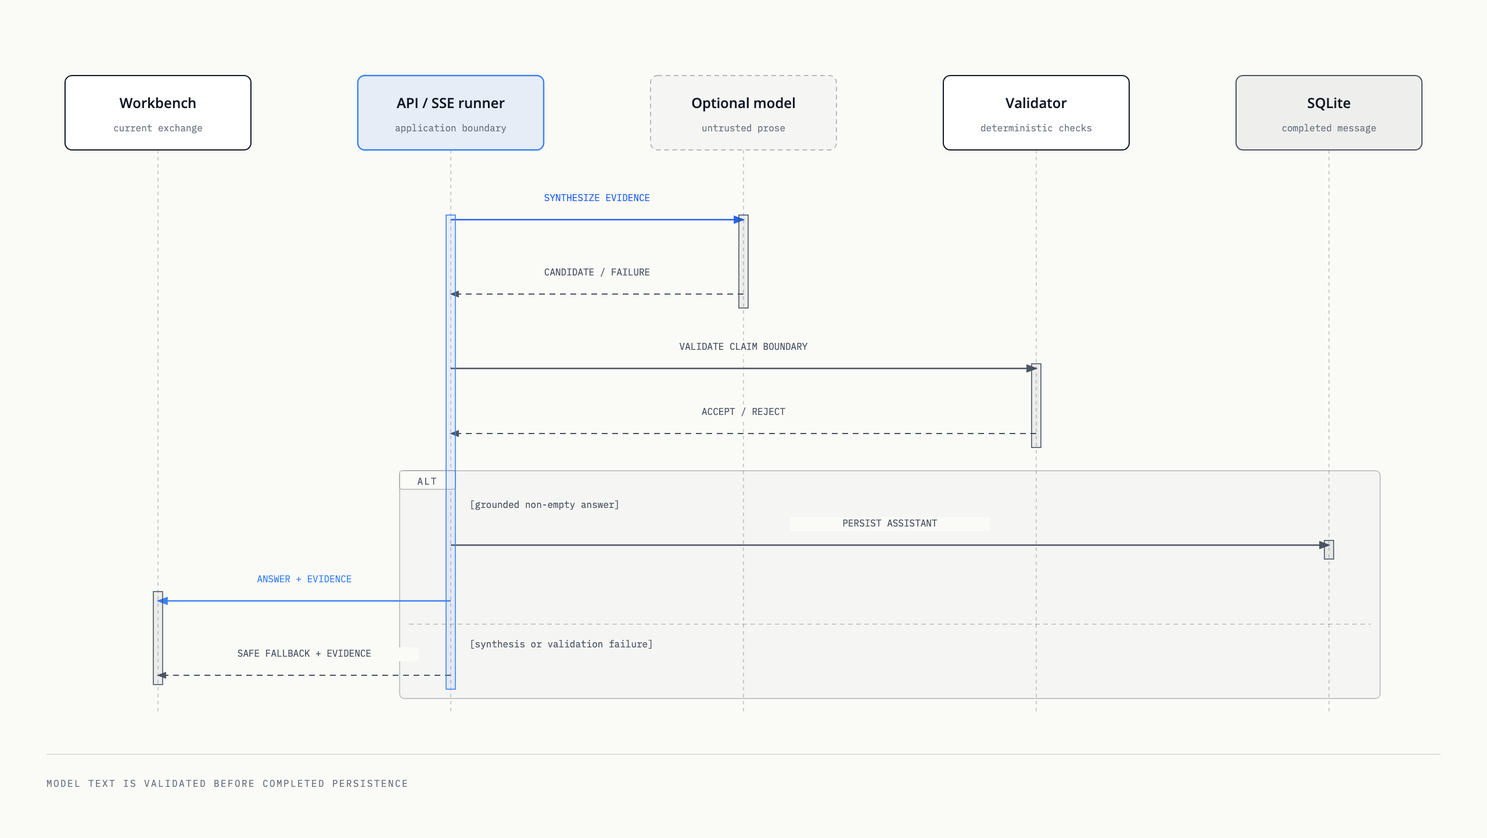
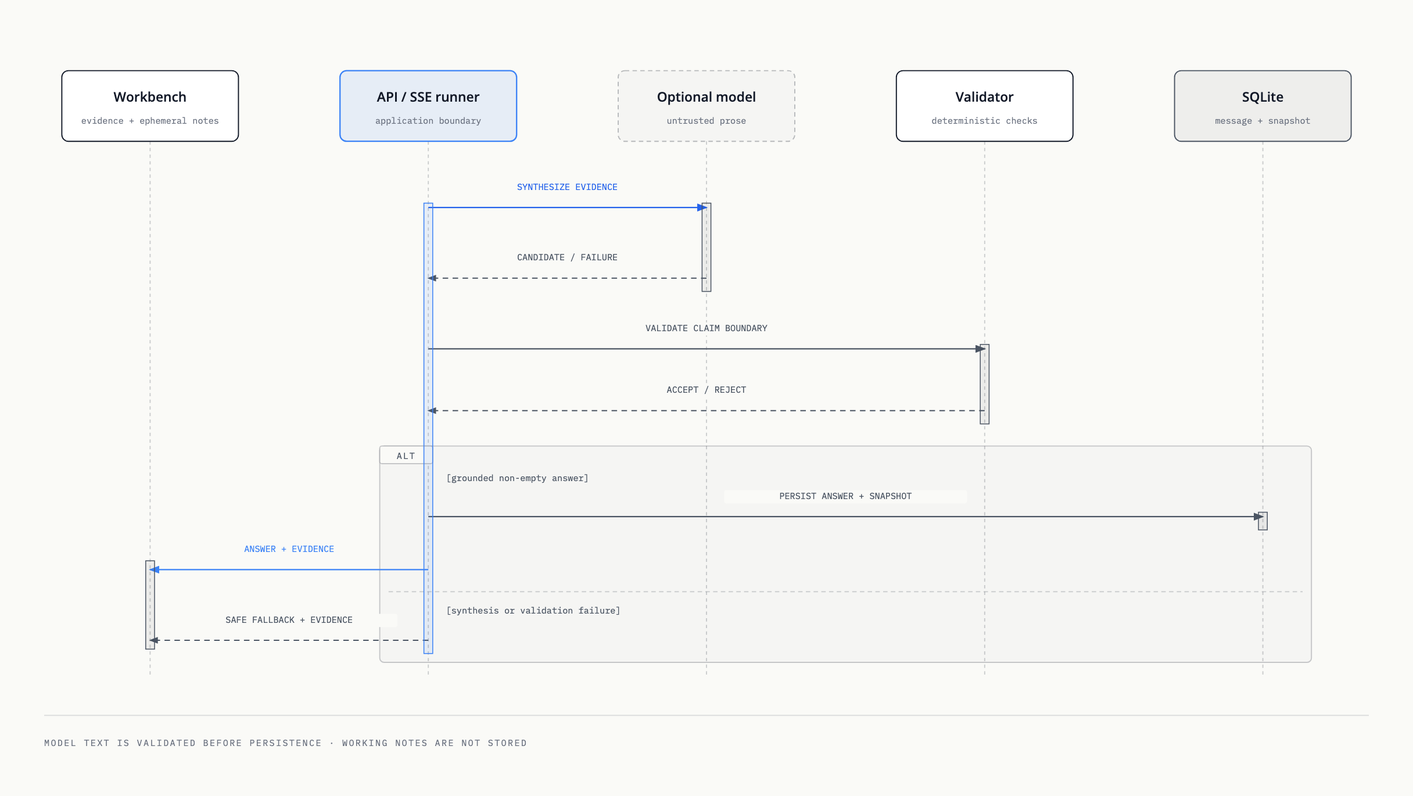
docs(v2): complete Slice 7 status and boundaries

diff --git a/docs/assets/combined-evidence-synthesis.html b/docs/assets/combined-evidence-synthesis.html
@@ -43,7 +43,7 @@
       <text x="368" y="416" text-anchor="middle" fill="#4b5563" font-family="IBM Plex Mono" font-size="8" letter-spacing="1">ALT</text>
       <text x="404" y="436" fill="#4b5563" font-family="IBM Plex Mono" font-size="8">[grounded non-empty answer]</text>
       <line x1="388" y1="468" x2="1144" y2="468" stroke="#4b5563" stroke-width="1.2" marker-end="url(#arrow)"/>
-      <rect x="680" y="444" width="172" height="12" rx="2" fill="#fafaf7"/><text x="766" y="452" text-anchor="middle" fill="#4b5563" font-family="IBM Plex Mono" font-size="8">PERSIST ASSISTANT</text>
+      <rect x="656" y="444" width="220" height="12" rx="2" fill="#fafaf7"/><text x="766" y="452" text-anchor="middle" fill="#4b5563" font-family="IBM Plex Mono" font-size="8">PERSIST ANSWER + SNAPSHOT</text>
       <line x1="388" y1="516" x2="136" y2="516" stroke="#3b82f6" stroke-width="1.2" marker-end="url(#arrow-accent)"/>
       <rect x="184" y="492" width="156" height="12" rx="2" fill="#fafaf7"/><text x="262" y="500" text-anchor="middle" fill="#3b82f6" font-family="IBM Plex Mono" font-size="8">ANSWER + EVIDENCE</text>
       <line x1="352" y1="536" x2="1180" y2="536" stroke="rgba(17,24,39,.20)" stroke-dasharray="4 3"/>
@@ -57,14 +57,14 @@
       <rect x="888" y="312" width="8" height="72" fill="rgba(17,24,39,.06)" stroke="#4b5563" stroke-width=".8"/>
       <rect x="1140" y="464" width="8" height="16" fill="rgba(17,24,39,.06)" stroke="#4b5563" stroke-width=".8"/>
 
-      <g><rect x="56" y="64" width="160" height="64" rx="6" fill="#fff" stroke="#111827"/><text x="136" y="92" text-anchor="middle" fill="#111827" font-family="Open Sans" font-size="12" font-weight="600">Workbench</text><text x="136" y="112" text-anchor="middle" fill="#6b7280" font-family="IBM Plex Mono" font-size="8">current exchange</text></g>
+      <g><rect x="56" y="64" width="160" height="64" rx="6" fill="#fff" stroke="#111827"/><text x="136" y="92" text-anchor="middle" fill="#111827" font-family="Open Sans" font-size="12" font-weight="600">Workbench</text><text x="136" y="112" text-anchor="middle" fill="#6b7280" font-family="IBM Plex Mono" font-size="8">evidence + ephemeral notes</text></g>
       <g><rect x="308" y="64" width="160" height="64" rx="6" fill="rgba(59,130,246,.10)" stroke="#3b82f6" stroke-width="1.2"/><text x="388" y="92" text-anchor="middle" fill="#111827" font-family="Open Sans" font-size="12" font-weight="600">API / SSE runner</text><text x="388" y="112" text-anchor="middle" fill="#6b7280" font-family="IBM Plex Mono" font-size="8">application boundary</text></g>
       <g><rect x="560" y="64" width="160" height="64" rx="6" fill="rgba(17,24,39,.02)" stroke="rgba(17,24,39,.28)" stroke-dasharray="4 3"/><text x="640" y="92" text-anchor="middle" fill="#111827" font-family="Open Sans" font-size="12" font-weight="600">Optional model</text><text x="640" y="112" text-anchor="middle" fill="#6b7280" font-family="IBM Plex Mono" font-size="8">untrusted prose</text></g>
       <g><rect x="812" y="64" width="160" height="64" rx="6" fill="#fff" stroke="#111827"/><text x="892" y="92" text-anchor="middle" fill="#111827" font-family="Open Sans" font-size="12" font-weight="600">Validator</text><text x="892" y="112" text-anchor="middle" fill="#6b7280" font-family="IBM Plex Mono" font-size="8">deterministic checks</text></g>
-      <g><rect x="1064" y="64" width="160" height="64" rx="6" fill="rgba(17,24,39,.05)" stroke="#4b5563"/><text x="1144" y="92" text-anchor="middle" fill="#111827" font-family="Open Sans" font-size="12" font-weight="600">SQLite</text><text x="1144" y="112" text-anchor="middle" fill="#6b7280" font-family="IBM Plex Mono" font-size="8">completed message</text></g>
+      <g><rect x="1064" y="64" width="160" height="64" rx="6" fill="rgba(17,24,39,.05)" stroke="#4b5563"/><text x="1144" y="92" text-anchor="middle" fill="#111827" font-family="Open Sans" font-size="12" font-weight="600">SQLite</text><text x="1144" y="112" text-anchor="middle" fill="#6b7280" font-family="IBM Plex Mono" font-size="8">message + snapshot</text></g>
 
       <line x1="40" y1="648" x2="1240" y2="648" stroke="rgba(17,24,39,.12)"/>
-      <text x="40" y="676" fill="#6b7280" font-family="IBM Plex Mono" font-size="8" letter-spacing="1.2">MODEL TEXT IS VALIDATED BEFORE COMPLETED PERSISTENCE</text>
+      <text x="40" y="676" fill="#6b7280" font-family="IBM Plex Mono" font-size="8" letter-spacing="1.2">MODEL TEXT IS VALIDATED BEFORE PERSISTENCE · WORKING NOTES ARE NOT STORED</text>
     </svg>
   </main>
 </body>

diff --git a/docs/assets/system-boundary.html b/docs/assets/system-boundary.html
@@ -21,7 +21,7 @@
     <h1>Industrial AI Agent system boundary</h1>
     <svg viewBox="0 0 1280 720" xmlns="http://www.w3.org/2000/svg" role="img" aria-labelledby="system-boundary-title system-boundary-desc">
       <title id="system-boundary-title">Industrial AI Agent system boundary</title>
-      <desc id="system-boundary-desc">Architecture showing a local user entering the web client and FastAPI orchestration, which uses SQLite, deterministic manufacturing evidence, local document evidence, and an optional configured model service.</desc>
+      <desc id="system-boundary-desc">Architecture showing a local user entering the web client and FastAPI orchestration, which uses SQLite for messages, context, and evidence snapshots; deterministic manufacturing evidence; local document evidence; and an optional configured model service. Model working notes stream to the current web exchange only.</desc>
       <defs>
         <marker id="arrow" markerWidth="8" markerHeight="6" refX="7" refY="3" orient="auto"><polygon points="0 0,8 3,0 6" fill="#4b5563"/></marker>
         <marker id="arrow-accent" markerWidth="8" markerHeight="6" refX="7" refY="3" orient="auto"><polygon points="0 0,8 3,0 6" fill="#3b82f6"/></marker>
@@ -62,7 +62,7 @@
         <rect x="80" y="320" width="144" height="80" rx="6" fill="#fafaf7"/>
         <rect x="80" y="320" width="144" height="80" rx="6" fill="#fff" stroke="#111827"/>
         <text x="152" y="352" text-anchor="middle" fill="#111827" font-family="Open Sans" font-size="12" font-weight="600">Web client</text>
-        <text x="152" y="372" text-anchor="middle" fill="#6b7280" font-family="IBM Plex Mono" font-size="8">React · Ant Design X</text>
+        <text x="152" y="372" text-anchor="middle" fill="#6b7280" font-family="IBM Plex Mono" font-size="8">evidence reload · live notes</text>
       </g>
       <g>
         <rect x="340" y="160" width="160" height="72" rx="6" fill="#fafaf7"/>
@@ -80,7 +80,7 @@
         <rect x="340" y="360" width="160" height="72" rx="6" fill="#fafaf7"/>
         <rect x="340" y="360" width="160" height="72" rx="6" fill="rgba(17,24,39,.05)" stroke="#4b5563"/>
         <text x="420" y="392" text-anchor="middle" fill="#111827" font-family="Open Sans" font-size="12" font-weight="600">SQLite</text>
-        <text x="420" y="412" text-anchor="middle" fill="#6b7280" font-family="IBM Plex Mono" font-size="8">messages · context</text>
+        <text x="420" y="412" text-anchor="middle" fill="#6b7280" font-family="IBM Plex Mono" font-size="8">messages · context · snapshots</text>
       </g>
       <g>
         <rect x="840" y="136" width="160" height="96" rx="6" fill="#fafaf7"/>

diff --git a/docs/architecture.md b/docs/architecture.md
@@ -18,13 +18,13 @@ leave the application boundary.
 
 | Boundary | Responsibility | Deliberate limit |
 | --- | --- | --- |
-| Web client | Conversation navigation, SSE consumption, workspace context, and current-exchange evidence rendering. | Does not calculate manufacturing values or persist evidence. |
+| Web client | Conversation navigation, SSE consumption, workspace context, historical snapshot rendering, and temporary Model Working Notes. | Does not calculate manufacturing values or persist working notes. |
 | FastAPI | HTTP contracts, validation, persistence coordination, and safe error responses. | No authentication, tenancy, or public-service hardening. |
-| SQLite and Alembic | Conversations, messages, and workspace context with explicit schema migrations. | No shared or highly available database. |
+| SQLite and Alembic | Conversations, messages, workspace context, and version-1 Evidence Snapshots with explicit schema migrations. | No shared or highly available database. |
 | Routing and graph | One authoritative route, clarification, fallback, single-tool execution, and one bounded combined path. | No open-ended planner, checkpoint resume, or evidence-tool retry. |
 | Manufacturing domain | Time-range validation, yield, defects, alarms, and recorded status over synthetic data. | No live state, throughput contract, or causal inference. |
 | Document retrieval | Section-aware chunks, lexical eligibility, deterministic feature hashing, cosine ranking, and stable citations. | No semantic embedding service, reranker, PDF/OCR, or persistent vector store. |
-| Model adapter | Optional answer and typed classification calls through an OpenAI-compatible API. | Model wording is not deterministic evidence. |
+| Model adapter | Optional answer and typed classification calls through an OpenAI-compatible API, with bounded final-answer reasoning separation. | Model wording and working notes are not deterministic evidence. |
 | MCP | Three native deterministic tools over local stdio. | Independent from FastAPI, the web client, retrieval, and conversation context. |
 | Evaluator | Fixed routing, evidence, retrieval, citation, and safe-failure assertions. | No LLM judge, live provider call, or performance benchmark. |
 
@@ -53,7 +53,14 @@ completion; the user message remains, while partial assistant content is not
 persisted. The application cannot guarantee that an upstream model provider
 has stopped generating after the disconnect.
 
-Structured manufacturing and document evidence belongs to the current browser
-exchange and is not restored from message history. Model text is untrusted
-interpretation. It cannot change synthetic records, invoke equipment, or turn
-an unsupported causal statement into deterministic evidence.
+Each completed evidence-backed assistant message stores one canonical,
+versioned Evidence Snapshot in the same persistence path as the Final Answer.
+History reload reads that copy instead of rerunning tools or reconstructing
+current data. Deleted uploads therefore do not remove excerpts already captured
+in a snapshot. Missing snapshots remain absent; unreadable stored snapshots keep
+the message visible and return an explicit Unavailable Evidence state.
+
+Model text is untrusted interpretation. Supported final-answer reasoning may be
+shown temporarily as Model Working Notes, but it is not stored in messages,
+snapshots, or logs. It cannot change synthetic records, invoke equipment, or
+turn an unsupported causal statement into deterministic evidence.

diff --git a/docs/implementation-status.md b/docs/implementation-status.md
@@ -44,9 +44,9 @@ matrix. Application README files own setup and contract usage.
 
 ## v2.0 — Persistent Evidence and Model Working Notes
 
-**Status: In Progress**
+**Status: Implemented**
 
-Slices 1 through 6 are implemented.
+Slices 1 through 7 are implemented.
 Slice 1 validates a version-1 typed
 `MessageRead.evidence_snapshot` union for Production Summary, Equipment Status,
 Defect Distribution, Document Search, Combined Evidence, and the explicit
@@ -130,7 +130,22 @@ and the disclosure showed a visible focus outline. This does not claim a live
 Qwen reasoning pass; its routing delay was excluded from deterministic UI
 acceptance. The browser run upgraded the local Alembic database from `0005` to
 `0006` without deleting data.
-Final v2.0 acceptance remains open in Slice 7.
+Slice 7 completed final acceptance. Stored unsupported or invalid snapshots now
+preserve their assistant messages and return explicit Unavailable Evidence on
+history reads while direct schema and write validation remain strict. A focused
+integration also verifies that deleting a local upload does not erase the
+captured source from a historical snapshot, and captured logs do not contain
+provider working-note text. The visible streaming cancel control remains usable
+while a request is active.
+
+The final local run passed 466 API tests and 145 Web tests, Ruff, deterministic
+evaluation, migration, API and Web builds, TypeScript checking, and ESLint with
+the existing Fast Refresh warning. Browser acceptance covered historical reload
+at desktop and 390 px, Combined partial failure, retained deleted-upload source,
+Missing and Unavailable Evidence, Working Notes collapse and reopening,
+truncation, interruption, cancellation, plain-text rendering, and reset on
+reload. Ant Design CLI diagnostics remain blocked by the existing missing native
+binding; the existing Vite chunk warning also remains.
 
 ## HTTP contracts
 
@@ -187,6 +202,11 @@ The latest full-release verification on 2026-08-15 produced:
   outline. This does not claim a live Qwen reasoning pass; its routing delay
   was excluded from deterministic UI acceptance. The browser run upgraded the
   local Alembic database from `0005` to `0006` without deleting data.
+- Slice 7 completed final local acceptance on 2026-08-18: the full API suite
+  passed 466 tests and the full Web suite passed 145 tests. Migration, Ruff,
+  deterministic evaluation, API and Web builds, TypeScript checking, ESLint,
+  browser reload and responsive checks, and both review axes passed. Ant Design
+  CLI diagnostics remained blocked by the documented missing native binding.
 - Browser combined workflow: one explicit production-plus-document request ran
   against saved synthetic AOI context. The final exchange retained a 95.56%
   Production Summary and three cited document sources when model synthesis was

diff --git a/docs/project-scope.md b/docs/project-scope.md
@@ -59,8 +59,8 @@ belongs in deterministic domain code rather than an LLM.
 
 ## Current milestone boundary
 
-v2.0 Persistent Evidence and Model Working Notes is **In Progress**. Slices 1
-through 6 are implemented. Slice 1
+v2.0 Persistent Evidence and Model Working Notes is **Implemented**. Slices 1
+through 7 are complete. Slice 1
 defines the version-1 typed
 `MessageRead.evidence_snapshot` union for Production Summary, Equipment Status,
 Defect Distribution, Document Search, Combined Evidence, and the explicit
@@ -145,9 +145,16 @@ Qwen reasoning pass; its routing delay was excluded from deterministic UI
 acceptance. The browser run upgraded the local Alembic database from `0005` to
 `0006` without deleting data.
 
-The following v2.0 work remains:
-
-- Slice 7 — Final v2.0 acceptance.
+Slice 7 completed the bounded v2.0 acceptance without adding another workflow.
+Unreadable stored snapshots preserve message history as Unavailable Evidence,
+deleted uploads do not erase sources already captured in historical snapshots,
+and provider working notes remain absent from SQLite and captured logs. The
+streaming cancel control also remains usable while generation is active. Final
+verification passed 466 API and 145 Web tests, deterministic evaluation,
+migration, linting, type checking, and both builds. Browser acceptance covered
+desktop and 390 px reload plus the approved historical and ephemeral states.
+Ant Design CLI diagnostics remain blocked by the documented missing native
+binding.
 
 v1.0 Portfolio Release is **Implemented**. It packages the verified v0.9
 application as a repository-only release. Corrective validation and responsive
@@ -224,7 +231,8 @@ external embedding service. A registry-only API and read-only Drawer expose
 the complete cited document. Local Markdown management adds persistent,
 Git-ignored single-file uploads, validation, atomic corpus replacement, and
 deletion while protecting built-ins. Multi-tool turns, PDF/OCR, authentication,
-cloud storage, and persisted evidence remain outside the current boundary.
+cloud storage, and persisted evidence were outside the v0.5 boundary; v2.0 later
+added message-owned Evidence Snapshots without changing the retrieval index.
 
 The completed v0.6 milestone adds typed English and Traditional Chinese routing,
 bounded classifier retry and fallback, deterministic clarification, shared

diff --git a/README.md b/README.md
@@ -16,6 +16,10 @@ evidence visibly separate. Co-occurrence is never presented as proof of cause.
 > verification, browser and screenshot review, public-copy and publication
 > review, two-axis code review, and GitHub Actions on 2026-08-15.
 
+> **v2.0 status: Implemented.** Completed assistant messages now retain typed
+> Evidence Snapshots across reloads. Supported provider working notes remain a
+> temporary, optional UI surface and never become message history or evidence.
+
 ## What the repository demonstrates
 
 - FastAPI and SQLite conversation persistence with explicit Alembic migrations;
@@ -114,17 +118,16 @@ The latest recorded results and release evidence are listed in
 same deterministic boundary on Ubuntu. Model calls and secrets are excluded
 from CI.
 
-The Slice 6 local verification recorded 89 focused backend tests, 86 focused
-frontend tests, 463 full API tests, and 144 full Web tests. Type checking,
-linting, and builds passed; existing Fast Refresh and chunk warnings remain.
+The final v2.0 local verification recorded 466 full API tests and 145 full Web
+tests. Deterministic evaluation, migration, type checking, linting, and builds
+passed; existing Fast Refresh and chunk warnings remain.
 Ant Design CLI `info`, `lint`, and `doctor` checks remain blocked by the missing
 `@oxc-parser/binding-darwin-arm64` package. A local browser acceptance run also
 passed with an independently created deterministic OpenAI-compatible streaming
-fixture: the disclosure opened during reasoning, closed on the first Final
-Answer token, reopened through its pointer, and disappeared on reload while the
-persisted answer remained. At a 390px viewport, the page had no horizontal
-overflow; the notes body used a 220px maximum height with scrolling, and its
-focus outline was visible.
+fixture. Historical production, Combined partial-failure, deleted-upload source,
+missing, and unsupported-version states survived reload. Working Notes opened,
+collapsed at the Final Answer, reopened, showed truncation and interruption,
+and disappeared on reload. At 390 px, the page had no horizontal overflow.
 
 ## Evidence boundaries
 

diff --git a/docs/roadmap.md b/docs/roadmap.md
@@ -356,7 +356,7 @@ and a clean public repository.
 
 ## v2.0 — Persistent Evidence and Model Working Notes
 
-**Status: In Progress**
+**Status: Implemented**
 
 Open the v2.0 boundary while keeping v1.0 Implemented. Slice 1 adds a
 version-1 typed `MessageRead.evidence_snapshot` union for Production Summary,
@@ -399,6 +399,8 @@ Implemented slices:
 - [x] Expose bounded final-answer reasoning through ephemeral SSE and frontend
   state without persisting Model Working Notes or exposing them on synchronous,
   routing, or tool-selection responses.
+- [x] Complete final v2.0 migration, persistence, reload, browser, accessibility,
+  review, deterministic evaluation, and publication acceptance.
 
 The schema, conversion, message-service, and runtime-persistence boundaries
 above are implemented. Slice 3 persists canonical snapshots for the four
@@ -475,6 +477,13 @@ Qwen reasoning pass; its routing delay was excluded from deterministic UI
 acceptance. The browser run upgraded the local Alembic database from `0005` to
 `0006` without deleting data.
 
-The following v2.0 slices remain open:
-
-- [ ] Slice 7 — Complete final v2.0 acceptance.
+Slice 7 completed final acceptance with 466 API tests and 145 Web tests. Ruff,
+deterministic evaluation, migration, type checking, linting, and both builds
+passed. The acceptance pass also corrected two reachable boundary defects:
+unreadable stored snapshots now preserve their messages as Unavailable Evidence,
+and the visible streaming cancel control remains operable. Browser checks covered
+historical reload at desktop and 390 px, Combined partial failure, a retained
+deleted-upload source, Missing and Unavailable Evidence, Working Notes collapse
+and reopening, truncation, interruption, cancellation, plain-text rendering,
+and reload clearing. Ant Design CLI diagnostics remain blocked by the documented
+missing native binding.

diff --git a/apps/web/README.md b/apps/web/README.md
@@ -100,18 +100,17 @@ The documented workflow has been verified from a clean git archive copy using
 the committed npm lockfile and frontend test, typecheck, lint, and build
 commands.
 
-The Slice 6 focused frontend checks passed 86 tests, and the complete Web suite
-passed 144 tests. Type checking, linting, and the production build passed with
+The final v2.0 Web suite passed 145 tests. Type checking, linting, and the
+production build passed with
 the existing Fast Refresh and chunk warnings. Ant Design CLI `info`, `lint`, and
 `doctor` checks remain blocked by the missing
 `@oxc-parser/binding-darwin-arm64` package. A local browser acceptance run also
 passed with an independently created deterministic OpenAI-compatible streaming
-fixture. It verified that the disclosure opened during reasoning, closed on the
-first Final Answer token, reopened through its pointer, and disappeared on
-reload while the persisted answer remained. At a 390px viewport, the page had
-no horizontal overflow; the notes body used a 220px maximum height with
-scrolling, and its focus outline was visible. Keyboard-native behavior remains
-covered by interaction tests; this run does not claim a browser keypress
+fixture. It verified historical Evidence Snapshot reload, Combined partial
+failure, deleted-upload sources, Missing and Unavailable Evidence, Working Notes
+collapse and reopening, truncation, interruption, and cancellation. At 390 px,
+the page had no horizontal overflow. Keyboard-native disclosure behavior remains
+covered by interaction tests; the browser run does not claim a keypress
 observation.
 
 The conversation workflow keeps the synchronous Message API as a stable path

diff --git a/docs/security-review.md b/docs/security-review.md
@@ -27,9 +27,11 @@ machine. The operator is responsible for reviewing that service's data policy.
 
 ## Local storage and uploads
 
-SQLite stores conversations, messages, and workspace context on local disk.
-Conversation deletion is permanent. Structured tool and source evidence is not
-persisted with message history.
+SQLite stores conversations, messages, workspace context, and canonical
+Evidence Snapshots on local disk. Conversation deletion permanently removes its
+messages and snapshots. Snapshots may retain excerpts from a local upload after
+that upload is deleted, because historical evidence records what supported the
+completed answer. Model Working Notes are not persisted.
 
 The Documents API accepts one UTF-8 `.md` file up to 1 MiB, validates it before
 atomically replacing the candidate corpus, protects built-in documents, and
@@ -51,7 +53,7 @@ Its safety depends on the local client and process boundary remaining trusted.
 
 ## Dependency observations
 
-Audits were run against the 2026-08-15 locked installations.
+Audits were last checked against the 2026-08-18 locked installations.
 
 - `npm audit --omit=dev` reported two moderate production dependency findings:
   DOMPurify through XMarkdown and Mermaid through Ant Design X. It reported no

diff --git a/docs/demo.md b/docs/demo.md
@@ -81,3 +81,19 @@ That observation led to a narrower contract: deterministic manufacturing
 claims remain strict, while formatting numbers and omitted inline citations no
 longer cause an otherwise grounded answer to fail. A later run with the revised
 contract produced the accepted observation recorded above.
+
+## v2.0 reload and Working Notes observation
+
+The final v2.0 browser acceptance used an independently created deterministic
+OpenAI-compatible fixture and repository-owned synthetic data. A completed
+Production Summary reappeared under its assistant message after desktop and
+390 px reloads. The same run displayed a Combined partial failure, a retained
+source excerpt from a deleted synthetic upload, a legacy message without a
+snapshot, and an unsupported snapshot version without hiding its message.
+
+When the fixture supplied final-answer reasoning, Model Working Notes opened
+during generation, collapsed when the Final Answer began, and could be reopened.
+Truncation remained plain text, and cancellation produced an Interrupted state.
+Reload removed the notes while preserving completed assistant text and Evidence
+Snapshots. Provider wording and the presence of reasoning are not release
+assertions.

diff --git a/docs/README.md b/docs/README.md
@@ -26,12 +26,14 @@ contracts.
 
 ## Status
 
-Milestones through v1.0 are implemented. The current boundary includes the
+Milestones through v2.0 are implemented. The current boundary includes the
 full-stack conversation foundation, deterministic manufacturing tools, local
 document retrieval, bounded routing, guided historical choices, local stdio
 MCP, formal offline evaluation, and one combined manufacturing-plus-document
-workflow. Evidence remains current-exchange-only, and production data,
-authentication, causal analysis, and remote deployment remain out of scope.
+workflow. Completed evidence is stored as a typed snapshot on its assistant
+message and restored after reload. Model Working Notes remain temporary and
+untrusted. Production data, authentication, causal analysis, and remote
+deployment remain out of scope.
 The v1.0 release boundary passed local deterministic checks, Combined Evidence
 browser and screenshot review, public-copy and publication review, two-axis
 code review, and remote CI on 2026-08-15.

diff --git a/apps/api/README.md b/apps/api/README.md
@@ -307,11 +307,11 @@ uv build
 The documented workflow has been verified from a clean git archive copy using
 the committed uv lockfile, migrations, and backend test suite.
 
-The Slice 6 focused backend checks passed 89 tests, and the complete API suite
-passed 463 tests. Ruff and the package build passed. A separate local browser
-acceptance run used an independently created deterministic OpenAI-compatible
-streaming fixture to verify the Model Working Notes disclosure, reload behavior,
-and narrow-viewport layout.
+The final v2.0 API suite passed 466 tests. Ruff, the package build, migration
+from the v1.0 schema, and all 45 deterministic evaluation scenarios passed.
+Acceptance also verifies that deleted uploads do not erase captured historical
+sources, unreadable stored snapshots become Unavailable Evidence without hiding
+their messages, and Model Working Notes do not enter SQLite or captured logs.
 
 ## Non-responsibilities
 
